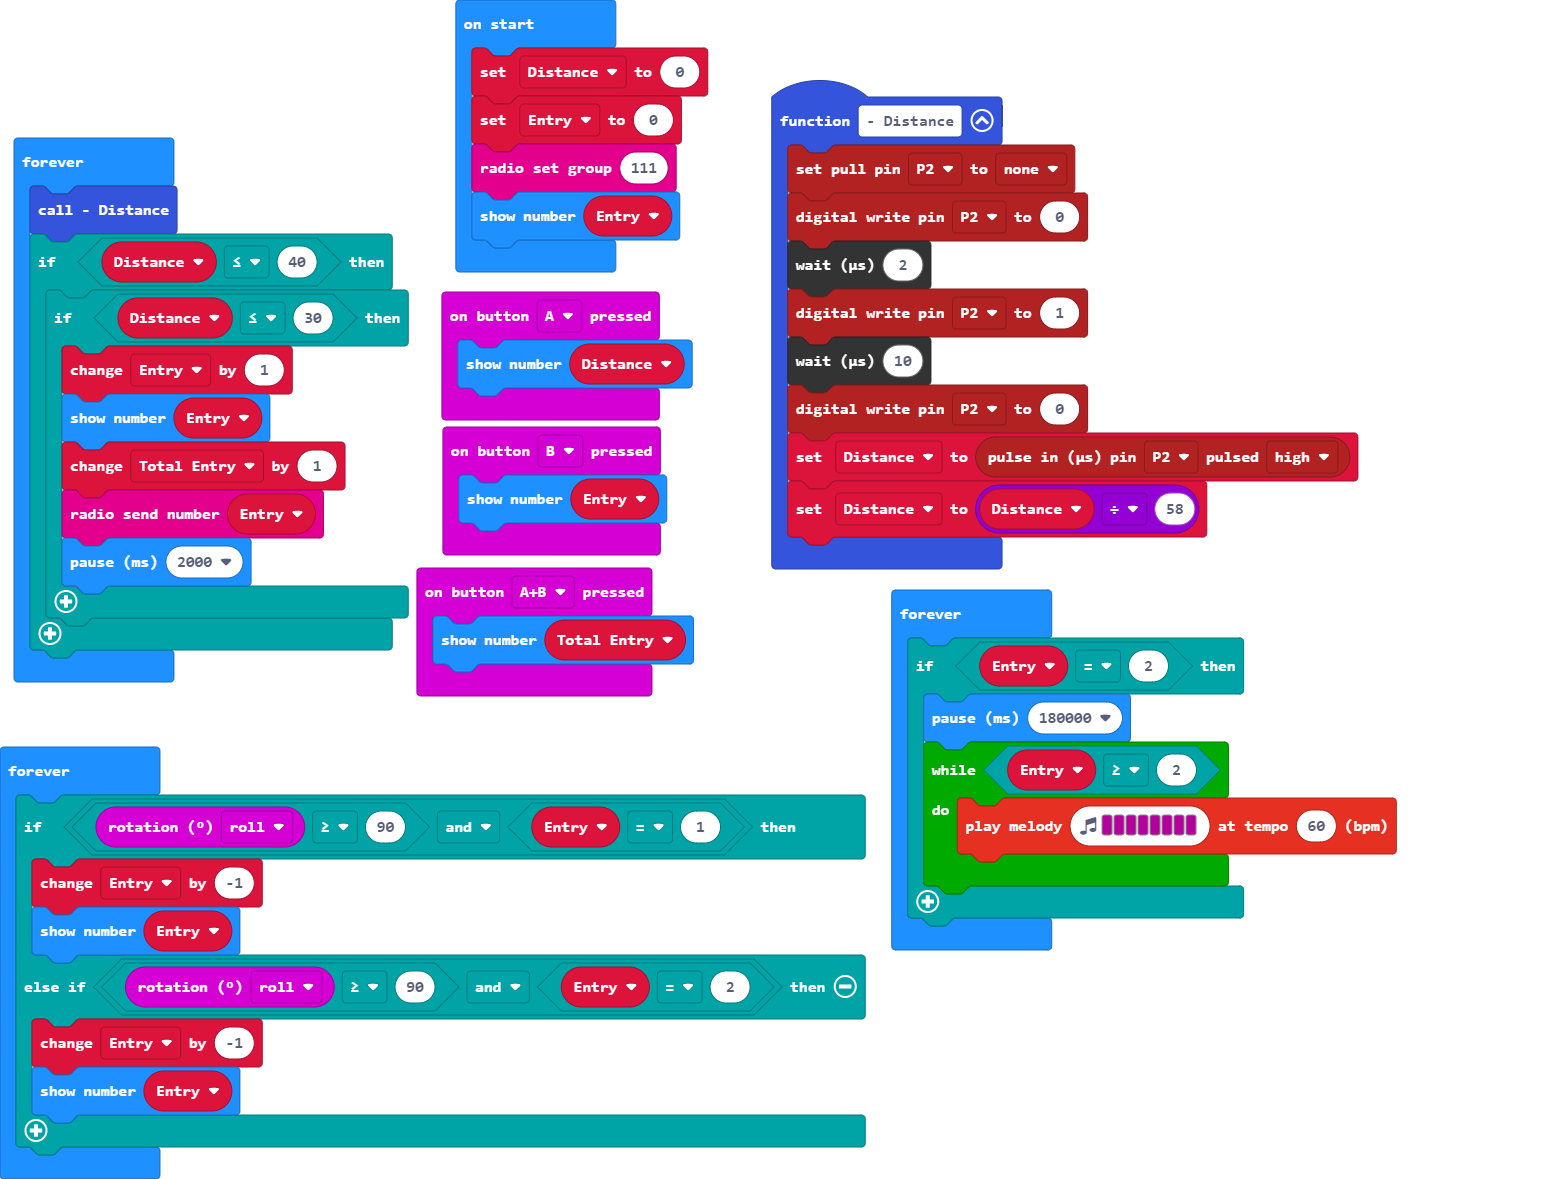
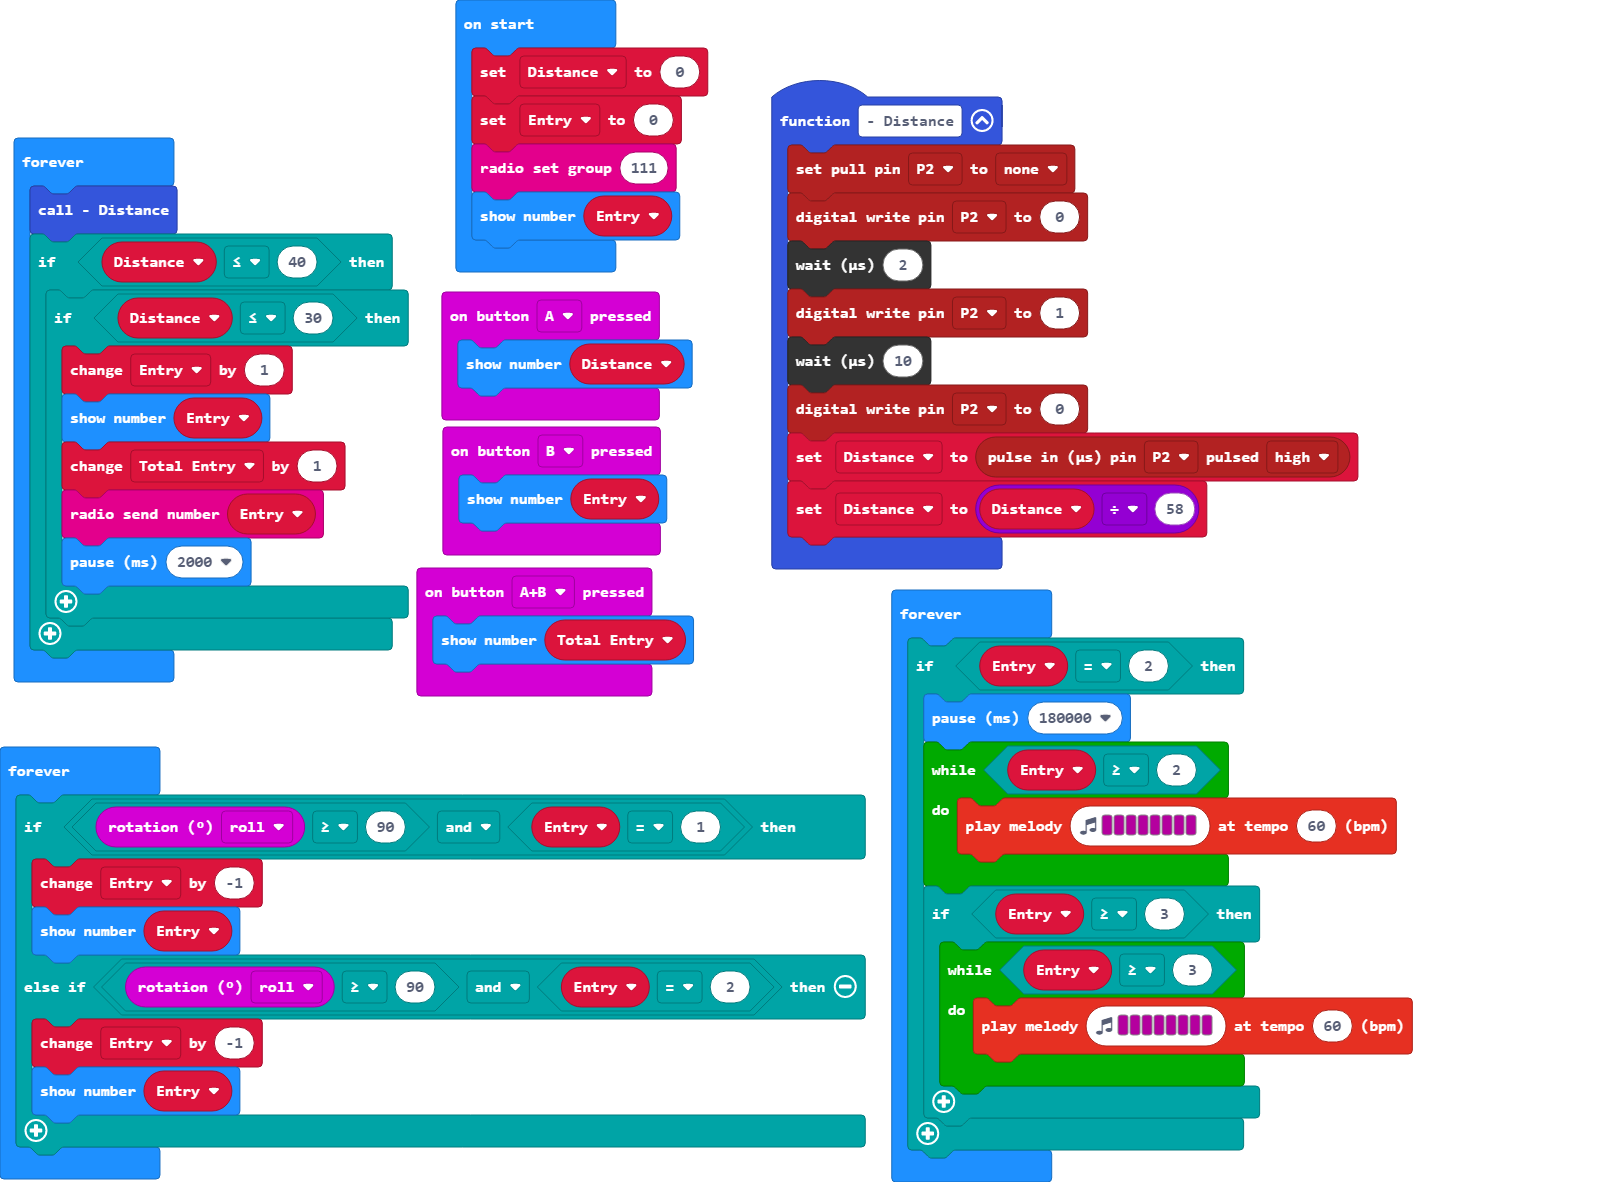
Update main.blocks, main.ts

Changed region(s): [[0.0, 0.0, 0.8969, 1.0]]

diff --git a/main.ts b/main.ts
@@ -42,6 +42,11 @@ basic.forever(function () {
         while (Entry >= 2) {
             music.playMelody("C C C C C C C C ", 60)
         }
+        if (Entry >= 3) {
+            while (Entry >= 3) {
+                music.playMelody("C C C C C C C C ", 60)
+            }
+        }
     }
 })
 basic.forever(function () {
